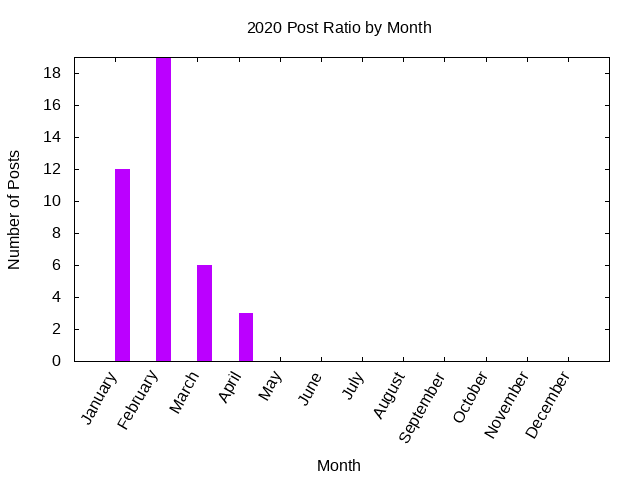
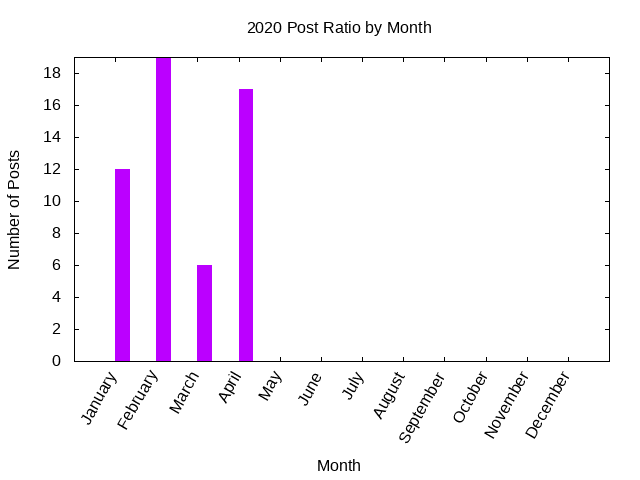
Updated stats

Changed region(s): [[0.375, 0.1875, 0.4062, 0.6562]]

diff --git a/_includes/stats/2020.md b/_includes/stats/2020.md
@@ -1,38 +1,40 @@
 ## 2020 (work in progress)
 
-**40 total posts** have been written on 2020.
-There have been *29 different tags* used, the most
+**54 total posts** have been written on 2020.
+There have been *40 different tags* used, the most
 used popular being (in order of number of posts):
  
-- *raku* (17 posts)  
-- *perl-weekly-challenge* (13 posts)  
-- *postgresql* (11 posts)  
-- *planet-postgresql-org* (9 posts)  
+- *raku* (21 posts)  
+- *perl-weekly-challenge* (16 posts)  
+- *postgresql* (13 posts)  
+- *planet-postgresql-org* (11 posts)  
+- *oracle* (6 posts)  
+- *java* (5 posts)  
+- *linux* (5 posts)  
+- *perl* (4 posts)  
 - *blog* (4 posts)  
-- *oracle* (3 posts)  
-- *perl* (3 posts)  
 - *php* (3 posts)  
-- *linux* (3 posts)  
-- *itpug* (2 posts)  
 - *freebsd* (2 posts)  
-- *java* (2 posts)  
-- *qt* (1 posts)  
-- *swap* (1 posts)  
-- *programming* (1 posts)  
-- *rant* (1 posts)  
-- *sql* (1 posts)  
-- *multithreading* (1 posts)  
-- *opensource* (1 posts)  
-- *magit* (1 posts)  
+- *sql* (2 posts)  
+- *itpug* (2 posts)  
+- *kde* (2 posts)  
+- *catalyst* (1 posts)  
+- *eclipse* (1 posts)  
 - *cryptsetup* (1 posts)  
-- *git* (1 posts)  
-- *ssh* (1 posts)  
-- *hacktoberfest* (1 posts)  
-- *kde* (1 posts)  
+- *smart-working* (1 posts)  
+- *multithreading* (1 posts)  
 - *aglets* (1 posts)  
-- *big-bang-theory* (1 posts)  
+- *hardware* (1 posts)  
+- *planet-kde-org* (1 posts)  
+- *programming* (1 posts)  
+- *opensource* (1 posts)  
+- *university* (1 posts)  
+- *git* (1 posts)  
+- *swap* (1 posts)  
+- *hibernate* (1 posts)  
 - *perl5* (1 posts)  
-- *university* (1 posts).<br/>
+- *jcl* (1 posts)  
+- *big-bang-theory* (1 posts).<br/>
 <br/>
 The following is the overall 2020 post ratio by month:
 <br/>
@@ -51,7 +53,7 @@ The following is the overall 2020 post ratio by tag (showing max 30 tags):
 
 <div align="right">
 <small>
-Last generated on 2020-04-09 at 17:18
+Last generated on 2020-04-29 at 17:13
 </small>
 </div>
 
